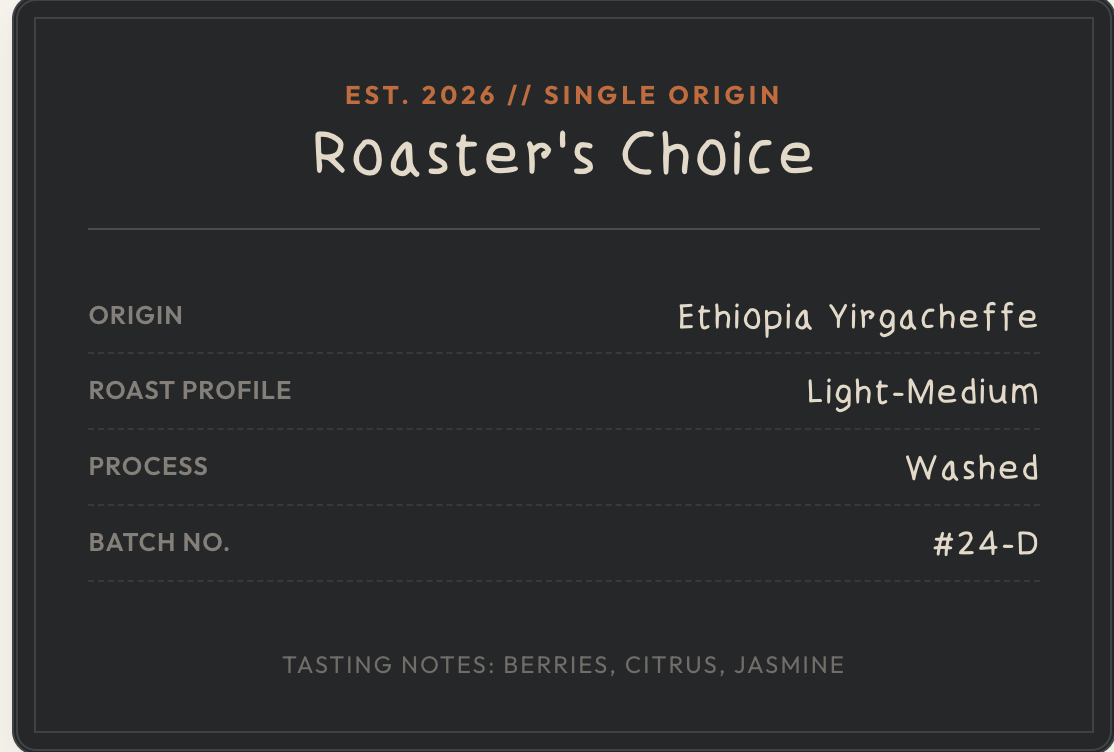
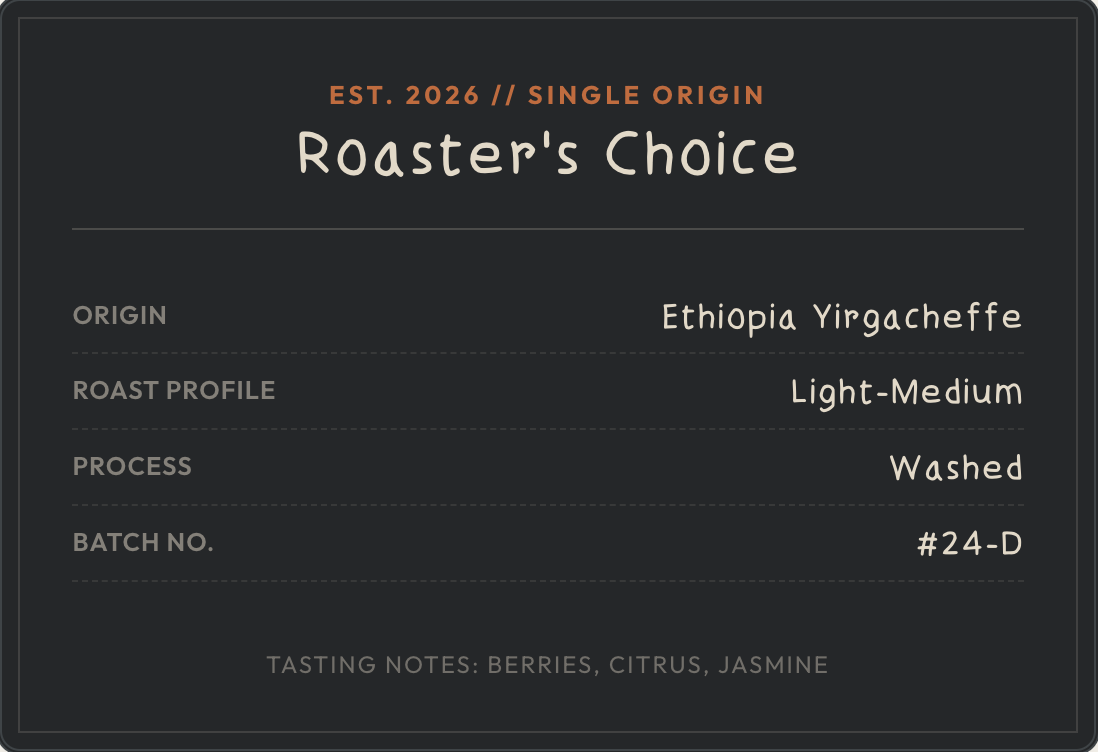
Add more use cases

diff --git a/website/styles.css b/website/styles.css
@@ -71,6 +71,8 @@ body,
 .download-card,
 .faq-item,
 .navbar,
+.nav-menu,
+.nav-link,
 .footer,
 .search-box input,
 .pill,
@@ -157,14 +159,63 @@ body,
   background-color: rgba(245, 238, 223, 0.06);
 }
 
-/* 2. Navigation Styling */
+/* 2. Navigation Styles */
+section[id] {
+  scroll-margin-top: 80px;
+}
+
 .navbar {
+  position: sticky;
+  top: 0;
+  width: 100%;
+  background-color: var(--bg-color);
+  border-bottom: 1px solid var(--border-color);
+  z-index: 1000;
+  display: flex;
+  justify-content: center;
+  align-items: center;
+}
+
+.navbar-container {
   width: 100%;
   max-width: 1200px;
-  padding: 2rem 2rem;
+  padding: 1rem 2rem;
   display: flex;
   justify-content: space-between;
   align-items: center;
+  position: relative;
+}
+
+.nav-menu {
+  display: flex;
+  align-items: center;
+}
+
+.nav-links {
+  display: flex;
+  list-style: none;
+  gap: 1.2rem;
+  margin: 0;
+  padding: 0;
+  align-items: center;
+}
+
+.nav-link {
+  font-family: "Outfit", sans-serif;
+  font-size: 0.9rem;
+  font-weight: 500;
+  color: var(--text-muted);
+  text-decoration: none;
+  transition: color 0.2s ease;
+}
+
+.nav-link:hover,
+.nav-link.active {
+  color: var(--accent-orange);
+}
+
+.nav-link.active {
+  font-weight: 600;
 }
 
 .nav-actions {
@@ -177,7 +228,88 @@ body,
   font-size: 2rem;
   font-weight: bold;
   color: var(--text-main);
+  text-decoration: none;
 }
+
+.logo:hover {
+  color: var(--text-main);
+}
+
+/* Mobile navigation toggle */
+.nav-toggle {
+  display: none;
+  background: transparent;
+  border: none;
+  cursor: pointer;
+  flex-direction: column;
+  gap: 5px;
+  padding: 5px;
+  z-index: 1001;
+}
+
+.nav-toggle .bar {
+  width: 25px;
+  height: 2px;
+  background-color: var(--text-main);
+  border-radius: 2px;
+  transition: transform 0.3s ease, opacity 0.3s ease;
+}
+
+@media (max-width: 1024px) {
+  .nav-toggle {
+    display: flex;
+    order: 3;
+  }
+
+  .nav-actions {
+    order: 2;
+    margin-left: auto;
+    margin-right: 1.25rem;
+  }
+
+  .nav-menu {
+    position: absolute;
+    top: 100%;
+    left: 0;
+    width: 100%;
+    background-color: var(--bg-color);
+    border-bottom: 1px solid var(--border-color);
+    flex-direction: column;
+    align-items: flex-start;
+    padding: 1.5rem 2rem;
+    gap: 1rem;
+    display: none;
+    box-shadow: var(--shadow-md);
+  }
+
+  .nav-menu.active {
+    display: flex;
+  }
+
+  .nav-links {
+    flex-direction: column;
+    align-items: flex-start;
+    width: 100%;
+    gap: 1rem;
+  }
+
+  .nav-link {
+    font-size: 1.1rem;
+    width: 100%;
+    padding: 0.5rem 0;
+  }
+
+  .nav-toggle.active .bar:nth-child(1) {
+    transform: translateY(7px) rotate(45deg);
+  }
+  .nav-toggle.active .bar:nth-child(2) {
+    opacity: 0;
+  }
+  .nav-toggle.active .bar:nth-child(3) {
+    transform: translateY(-7px) rotate(-45deg);
+  }
+}
+
 
 .hero-container {
   width: 100%;
@@ -537,10 +669,11 @@ button {
   width: 100%;
   height: auto;
   border-radius: 12px;
+  margin: auto 0;
 }
 
 .use-case-card p {
-  margin-top: auto;
+  margin-top: 0;
 }
 
 .justified {

diff --git a/website/index.html b/website/index.html
@@ -30,25 +30,50 @@
 
 <body>
   <nav class="navbar">
-    <div class="logo">WM Font</div>
-    <div class="nav-actions">
-      <button id="theme-toggle" class="btn-theme" aria-label="Toggle dark mode">
-        <svg class="sun-icon" viewBox="0 0 24 24" fill="none" stroke="currentColor" stroke-width="2">
-          <circle cx="12" cy="12" r="5"></circle>
-          <line x1="12" y1="1" x2="12" y2="3"></line>
-          <line x1="12" y1="21" x2="12" y2="23"></line>
-          <line x1="4.22" y1="4.22" x2="5.64" y2="5.64"></line>
-          <line x1="18.36" y1="18.36" x2="19.78" y2="19.78"></line>
-          <line x1="1" y1="12" x2="3" y2="12"></line>
-          <line x1="21" y1="12" x2="23" y2="12"></line>
-          <line x1="4.22" y1="19.78" x2="5.64" y2="18.36"></line>
-          <line x1="18.36" y1="5.64" x2="19.78" y2="4.22"></line>
-        </svg>
-        <svg class="moon-icon" viewBox="0 0 24 24" fill="none" stroke="currentColor" stroke-width="2">
-          <path d="M21 12.79A9 9 0 1 1 11.21 3 7 7 0 0 0 21 12.79z"></path>
-        </svg>
+    <div class="navbar-container">
+      <a href="#" class="logo">WM Font</a>
+      
+      <button class="nav-toggle" id="nav-toggle" aria-label="Toggle navigation menu">
+        <span class="bar"></span>
+        <span class="bar"></span>
+        <span class="bar"></span>
       </button>
-      <a href="#download-section" class="btn-outline">Download</a>
+
+      <div class="nav-menu" id="nav-menu">
+        <ul class="nav-links">
+          <li><a href="#" class="nav-link active">Home</a></li>
+          <li><a href="#examples-section" class="nav-link">Examples</a></li>
+          <li><a href="#use-cases-section" class="nav-link">Uses</a></li>
+          <li><a href="#playground" class="nav-link">Playground</a></li>
+          <li><a href="#glyphs-section" class="nav-link">Glyphs</a></li>
+          <li><a href="#showcase" class="nav-link">Showcase</a></li>
+          <li><a href="#about-section" class="nav-link">About</a></li>
+          <li><a href="#drawing-sheets" class="nav-link">Design</a></li>
+          <li><a href="#programming" class="nav-link">Code</a></li>
+          <li><a href="#faq-section" class="nav-link">FAQ</a></li>
+          <li><a href="#download-section" class="nav-link">Download</a></li>
+        </ul>
+      </div>
+
+      <div class="nav-actions">
+        <button id="theme-toggle" class="btn-theme" aria-label="Toggle dark mode">
+          <svg class="sun-icon" viewBox="0 0 24 24" fill="none" stroke="currentColor" stroke-width="2">
+            <circle cx="12" cy="12" r="5"></circle>
+            <line x1="12" y1="1" x2="12" y2="3"></line>
+            <line x1="12" y1="21" x2="12" y2="23"></line>
+            <line x1="4.22" y1="4.22" x2="5.64" y2="5.64"></line>
+            <line x1="18.36" y1="18.36" x2="19.78" y2="19.78"></line>
+            <line x1="1" y1="12" x2="3" y2="12"></line>
+            <line x1="21" y1="12" x2="23" y2="12"></line>
+            <line x1="4.22" y1="19.78" x2="5.64" y2="18.36"></line>
+            <line x1="18.36" y1="5.64" x2="19.78" y2="4.22"></line>
+          </svg>
+          <svg class="moon-icon" viewBox="0 0 24 24" fill="none" stroke="currentColor" stroke-width="2">
+            <path d="M21 12.79A9 9 0 1 1 11.21 3 7 7 0 0 0 21 12.79z"></path>
+          </svg>
+        </button>
+        <a href="#download-section" class="btn-outline">Download</a>
+      </div>
     </div>
   </nav>
 
@@ -140,7 +165,7 @@
   <section class="use-cases-container" id="use-cases-section">
     <h2 class="section-title">Use Cases</h2>
     <p class="section-subtitle">
-      See how WM Font can be used in various design scenarios.
+      See how WM Font can be used in various design scenarios. Click an image to enlarge.
     </p>
     <div class="use-cases-grid">
       <div class="use-case-card">
@@ -152,7 +177,7 @@
         </p>
       </div>
       <div class="use-case-card">
-        <h3>Print Media</h3>
+        <h3>Printed Media</h3>
         <img src="./assets/envelope.png" alt="Envelope" class="use-case-image" />
         <p>
           Ideal for greeting cards, posters, and flyers that require a
@@ -160,11 +185,32 @@
         </p>
       </div>
       <div class="use-case-card">
-        <h3>Online Journaling</h3>
+        <h3>Journaling</h3>
         <img src="./assets/todo.png" alt="Journal" class="use-case-image" />
         <p>
           Great for anything that needs a personal, handwritten aesthetic like
           note-taking apps, journals, and diaries.
+        </p>
+      </div>
+      <div class="use-case-card">
+        <h3>Comic Books</h3>
+        <img src="./assets/comics.png" alt="Comic" class="use-case-image" />
+        <p>
+          Also great for handwritten style text inside comics
+        </p>
+      </div>
+      <div class="use-case-card">
+        <h3>Letters</h3>
+        <img src="./assets/letter.png" alt="letter" class="use-case-image" />
+        <p>
+          When you need to add handwritten feel to a letter
+        </p>
+      </div>
+      <div class="use-case-card">
+        <h3>Graphic Design</h3>
+        <img src="./assets/ui.png" alt="Graphic Design" class="use-case-image" />
+        <p>
+          For those times where you want to design something with a handwritten feel.
         </p>
       </div>
     </div>
@@ -394,7 +440,7 @@
       Here are the answers to some of the most common questions about WM Font
     </p>
     <div class="faq-grid">
-      <details class="faq-item" name="faq-accordion" open>
+      <details class="faq-item" name="faq-accordion">
         <summary class="faq-question">What is WM Font?
           <svg class="faq-icon" viewBox="0 0 24 24" fill="none" stroke="currentColor" stroke-width="2"
             stroke-linecap="round" stroke-linejoin="round">
@@ -476,7 +522,7 @@
       <!-- WOFF2 -->
       <div class="download-card">
         <div class="card-title-group">
-          <h3>WOFF2</h3>
+          <h3>.WOFF2</h3>
           <span class="file-size">21.8 KB</span>
         </div>
         <a href="https://github.com/wasi-master/wm_font/releases/download/v1.0.0/WmFont-Regular.woff2" download
@@ -493,7 +539,7 @@
       <!-- OTF -->
       <div class="download-card">
         <div class="card-title-group">
-          <h3>OTF</h3>
+          <h3>.OTF</h3>
           <span class="file-size">138.8 KB</span>
         </div>
         <a href="https://github.com/wasi-master/wm_font/releases/download/v1.0.0/WmFont-Regular.otf" download
@@ -510,7 +556,7 @@
       <!-- TTF -->
       <div class="download-card">
         <div class="card-title-group">
-          <h3>TTF</h3>
+          <h3>.TTF</h3>
           <span class="file-size">38.1 KB</span>
         </div>
         <a href="https://github.com/wasi-master/wm_font/releases/download/v1.0.0/WmFont-Regular.ttf" download
@@ -527,7 +573,7 @@
       <!-- WOFF -->
       <div class="download-card">
         <div class="card-title-group">
-          <h3>WOFF</h3>
+          <h3>.WOFF</h3>
           <span class="file-size">25.0 KB</span>
         </div>
         <a href="https://github.com/wasi-master/wm_font/releases/download/v1.0.0/WmFont-Regular.woff" download
@@ -544,7 +590,7 @@
       <!-- SVG -->
       <div class="download-card">
         <div class="card-title-group">
-          <h3>SVG</h3>
+          <h3>.SVG</h3>
           <span class="file-size">95.8 KB</span>
         </div>
         <a href="https://github.com/wasi-master/wm_font/releases/download/v1.0.0/WmFont-Regular.svg" download
@@ -561,7 +607,7 @@
       <!-- ZIP -->
       <div class="download-card">
         <div class="card-title-group">
-          <h3>ZIP</h3>
+          <h3>.ZIP</h3>
           <span class="file-size">179.0 KB</span>
         </div>
         <a href="https://github.com/wasi-master/wm_font/releases/download/v1.0.0/WmFont.zip" download

diff --git a/website/script.js b/website/script.js
@@ -302,6 +302,29 @@ document.addEventListener("DOMContentLoaded", () => {
     }
   }
 
+  const navToggle = document.getElementById("nav-toggle");
+  const navMenu = document.getElementById("nav-menu");
+  const navLinksList = document.querySelectorAll(".nav-link");
+
+  if (navToggle && navMenu) {
+    navToggle.addEventListener("click", () => {
+      navToggle.classList.toggle("active");
+      navMenu.classList.toggle("active");
+    });
+
+    // Close mobile menu and highlight active tab on click
+    navLinksList.forEach(link => {
+      link.addEventListener("click", () => {
+        navToggle.classList.remove("active");
+        navMenu.classList.remove("active");
+
+        navLinksList.forEach(l => l.classList.remove("active"));
+        link.classList.add("active");
+      });
+    });
+  }
+
   hljs.addPlugin(new CopyButtonPlugin());
   hljs.highlightAll();
 });
+